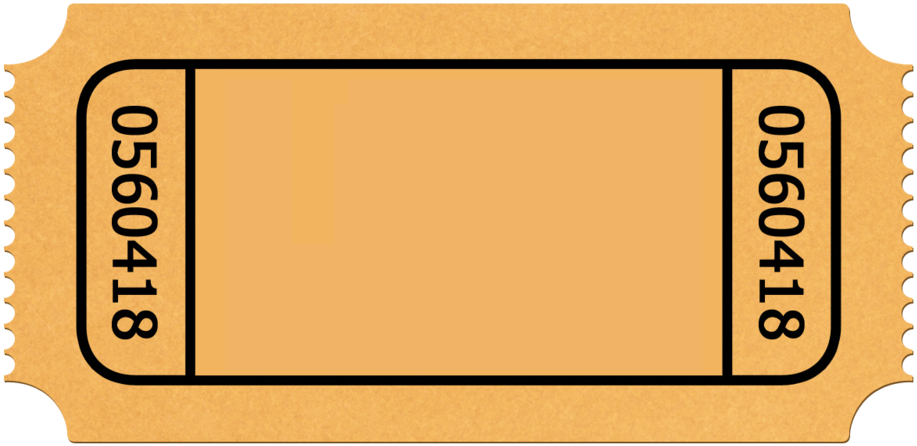
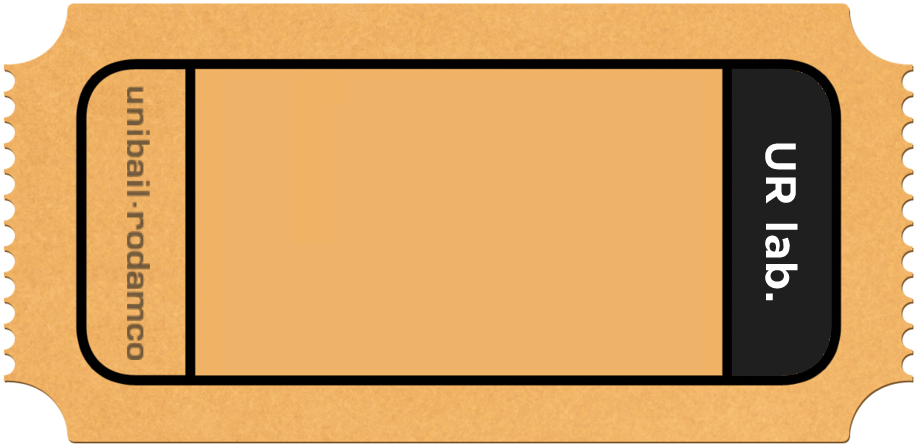
Add reset functionality; personalize ticket

Changed region(s): [[0.7939, 0.1457, 0.916, 0.8453], [0.1221, 0.1749, 0.1832, 0.8161]]

diff --git a/public/index.html b/public/index.html
@@ -7,22 +7,32 @@
         <div class="ticket">
             <div id="counter"></div>
         </div>
+        </div>
         <script src="vendor/jquery-1.10.2.min.js" type="text/javascript"></script>
         <script src="vendor/jquery.storageapi.min.js" type="text/javascript"></script>
         <script type="text/javascript">
         $(document).ready(function() {
-            var getCode = function() {
-                var code = $.localStorage.get('code');
-                if (code)
-                    $('#counter').text(code);
-                else {
-                    $.ajax({url:'api/code', success:function(ret) {
-                        $('#counter').text(ret.code);
-                        $.localStorage.set('code', ret.code);
-                    }});
-                }
+            var counter = {
+                id: 0,
+                code: 0
             };
-            getCode();
+            var getCounter = function() {
+                var counter = $.localStorage.get('counter');
+                $.ajax({
+                    url:'api/counter',
+                    data: { id: counter ? counter.id : 0 },
+                    success:function(ret) {
+                        if (counter && counter.id == ret.id)
+                            $('#counter').text(counter.code);
+                        else {
+                            counter = ret;
+                            $('#counter').text(counter.code);
+                            $.localStorage.set('counter', counter);
+                        }
+                    }
+                });
+            };
+            getCounter();
         });
         </script>
     </body>

diff --git a/server.js b/server.js
@@ -107,15 +107,22 @@ var TickItApp = function() {
             res.send(self.cache_get('index.html') );
         };*/
 
-        self.routes['/api/code'] = function(req, res) {
-            
-            var counter = fs.readFileSync("counter.txt").toString();
-            counter = parseInt(counter);
-            counter++;
-            fs.writeFile("counter.txt", counter);
+        self.routes['/api/counter'] = function(req, res) {
 
-            var ret = self.leftPad(counter);
-            res.json({ code: ret });
+            var counter = {id: null, code: null};
+            var serializedC = fs.readFileSync("counter.txt").toString();
+            serializedC = serializedC.split(';');
+            if (serializedC.length<2)
+                counter = {id: new Date().getTime(), code: 0};
+            else {
+                counter.code = parseInt(serializedC[0]);
+                counter.id = serializedC[1];
+            }
+            counter.code += 1;
+            fs.writeFile("counter.txt", counter.code+';'+counter.id);
+
+            counter.code = self.leftPad(counter.code);
+            res.json(counter);
         };
 
         self.routes['/api/reset'] = function(req, res) {
@@ -123,7 +130,7 @@ var TickItApp = function() {
             res.send(200);
         };
 
-    }
+    };
 
     /**
      *  Initialize the server (express) and create the routes and register

diff --git a/public/style/app.css b/public/style/app.css
@@ -1,18 +1,20 @@
 body {
-	font-family: 'Roboto Condensed', sans-serif;
-	font-size: 250px;
-	background-image: url('img/ticks.png');
+    font-family: 'Roboto Condensed', sans-serif;
+    font-size: 250px;
+    background-image: url('img/ticks.png');
 }
 
 .ticket {
-	margin: 0 auto;
-	height: 800px;
-	width: 917px;
-	background: url('img/ticket.png') center no-repeat;
+    margin: 10% auto 0 auto;
+    height: 446px;
+    width: 917px;
+    position: relative;
+    background: url('img/ticket.png') center no-repeat;
 }
 
 #counter {
-	position: absolute;
-	top: 220px;
-	left: 300px;
+    top: 50px;
+    position: absolute;
+    text-align: center;
+    width: 900px;
 }
